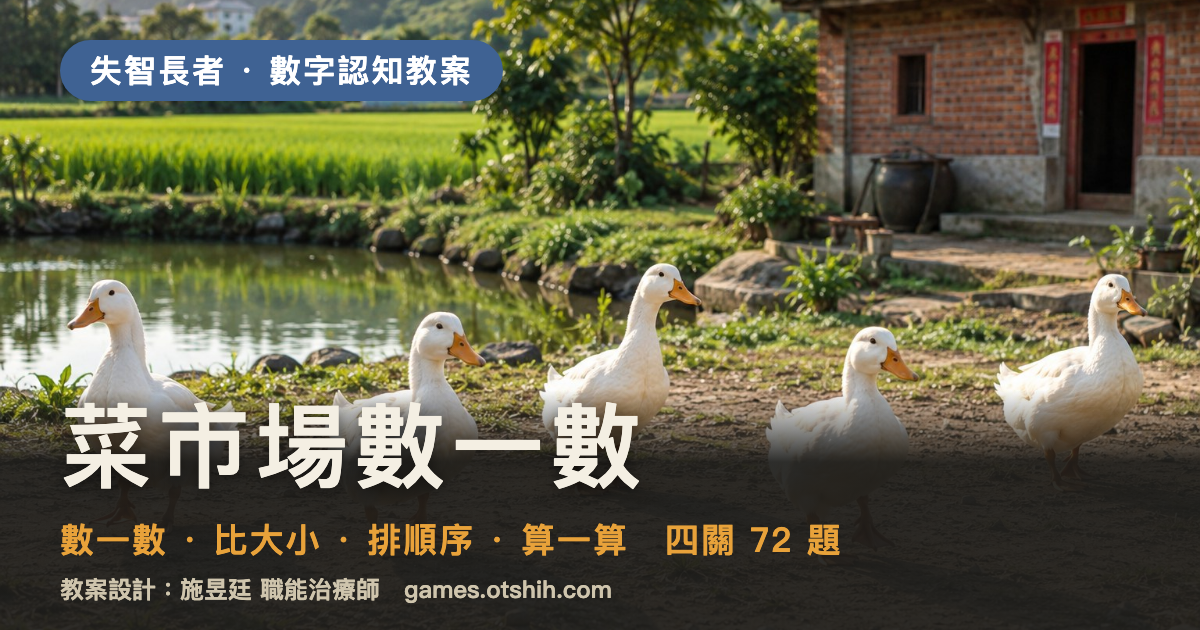
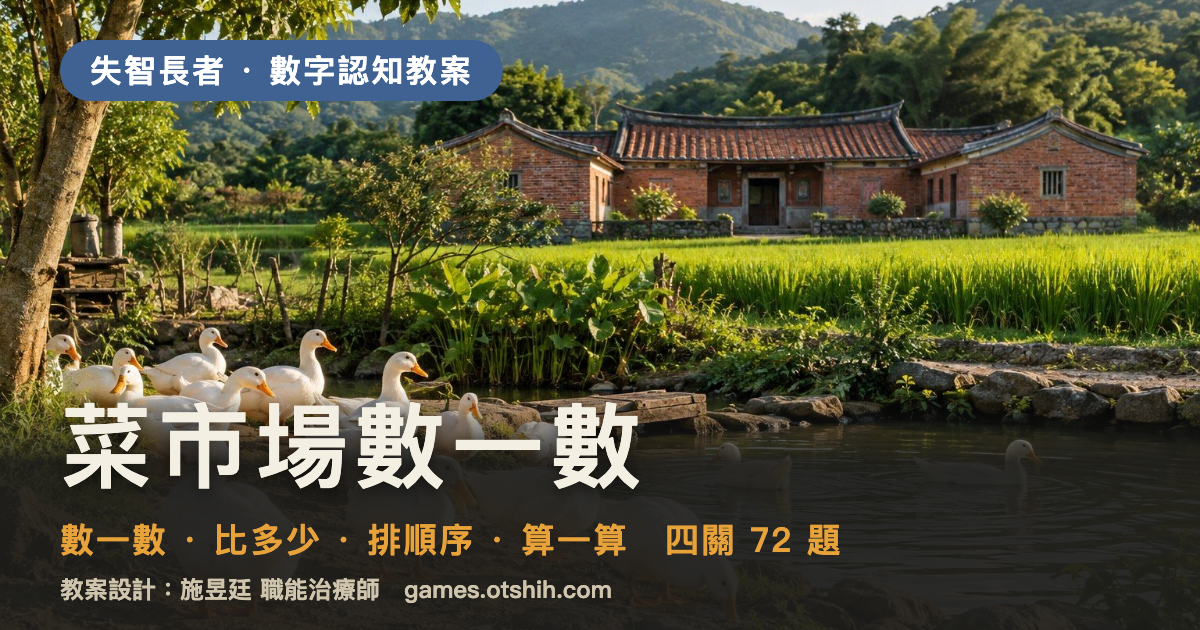
菜市場數一數 v1.1：第二關改「比多少」純數量比較（老闆指示）；排列相鄰不重複＋尺寸抖動

diff --git a/market-beta/index.html b/market-beta/index.html
@@ -4,13 +4,13 @@
 <meta charset="utf-8">
 <meta name="viewport" content="width=device-width,initial-scale=1,viewport-fit=cover">
 <title>菜市場數一數 — 數字認知教案</title>
-<meta name="description" content="菜市場數一數：數一數、比大小、排順序、算一算，四關 72 題的失智長者數字認知教案。投影帶團體或手機都能玩。教案設計：施昱廷 職能治療師。">
+<meta name="description" content="菜市場數一數：數一數、比多少、排順序、算一算，四關 72 題的失智長者數字認知教案。投影帶團體或手機都能玩。教案設計：施昱廷 職能治療師。">
 <meta name="theme-color" content="#3F6293">
 <link rel="icon" href="../favicon.png">
 <meta property="og:type" content="website">
 <meta property="og:site_name" content="復能小遊戲">
 <meta property="og:title" content="菜市場數一數 · 失智長者數字認知教案">
-<meta property="og:description" content="數一數、比大小、排順序、算一算，四關 72 題，用菜市場最熟悉的東西練數字。投影帶團體、手機也能玩。免費開放。">
+<meta property="og:description" content="數一數、比多少、排順序、算一算，四關 72 題，用菜市場最熟悉的東西練數字。投影帶團體、手機也能玩。免費開放。">
 <meta property="og:url" content="https://games.otshih.com/market-beta/">
 <meta property="og:image" content="https://games.otshih.com/market-beta/share.png">
 <meta property="og:image:width" content="1200">
@@ -114,7 +114,7 @@ kbd{display:inline-block;background:var(--ink);color:#fff;border-radius:10px;pad
 .scene.studio{background-image:url(img/bg_studio.jpg)} .scene.wood{background-image:url(img/bg_wood.jpg)}
 .items{position:absolute;inset:0;display:flex;flex-wrap:wrap;align-content:center;justify-content:center;gap:var(--gap,10px);padding:40px}
 .item{position:relative;width:var(--sz);height:var(--sz);display:flex;align-items:flex-end;justify-content:center}
-.item img{max-width:100%;max-height:100%;width:auto;height:auto;filter:drop-shadow(0 12px 10px rgba(0,0,0,.22));transform:rotate(var(--rot,0deg)) scaleX(var(--flip,1))}
+.item img{max-width:100%;max-height:100%;width:auto;height:auto;filter:drop-shadow(0 12px 10px rgba(0,0,0,.22));transform:rotate(var(--rot,0deg)) scaleX(var(--flip,1)) scale(var(--sc,1));transform-origin:center bottom}
 .item .num{position:absolute;top:-6px;right:-6px;width:.6em;height:.6em;font-size:calc(var(--sz) * .5);border-radius:50%;background:var(--amber);color:var(--ink);font-weight:900;display:none;align-items:center;justify-content:center;box-shadow:0 4px 10px rgba(0,0,0,.25);line-height:1}
 .item.num-on .num{display:flex;animation:drop .35s ease-out both}
 .items.fives{align-content:center;padding:30px 60px}
@@ -302,13 +302,13 @@ kbd{display:inline-block;background:var(--ink);color:#fff;border-radius:10px;pad
   </div></div>
 </div></div>
 
-<script src="questions.js?v=1"></script>
+<script src="questions.js?v=2"></script>
 <script>
 (function(){
   const T = window.TOPICS, R = window.ROUNDS, M = window.MONEY, LV = window.LEVELS;
   const $ = s => document.querySelector(s);
   const png = k => `img/${k}.png`, jpg = k => `img/${k}.jpg`;
-  const LVDESC = ["1～5、明顯差距、3 張牌、數硬幣","6～10、尺寸比較、4 張牌、50 元找零","11～20、比價錢、5 張牌、100 元買兩樣"];
+  const LVDESC = ["1～5、差很多、3 張牌、數硬幣","6～10、差 2～3 個、4 張牌、50 元找零","11～20、差 1～3 個、5 張牌、100 元買兩樣"];
 
   /* 可重現的亂數（同一題每次排法一樣，帶領者提示卡才對得上） */
   function rng(seed){ let s = seed * 9301 + 49297; return () => { s = (s * 9301 + 49297) % 233280; return s / 233280; }; }
@@ -318,10 +318,12 @@ kbd{display:inline-block;background:var(--ink);color:#fff;border-radius:10px;pad
     const t = T[topic], r = rng(seed);
     const sz = opt.sz || (n <= 5 ? 300 : n <= 10 ? 220 : 160);
     let h = `<div class="items" style="--sz:${sz}px;--gap:${opt.gap ?? (n<=5?40:n<=10?26:14)}px">`;
+    let last = -1;
     for (let i = 0; i < n; i++) {
-      const im = t.items[Math.floor(r() * t.items.length)];
-      const rot = (r() * 16 - 8).toFixed(1), flip = r() < 0.4 ? -1 : 1;
-      h += `<div class="item" style="--rot:${rot}deg;--flip:${flip}"><img src="${png(im)}" alt=""><span class="num">${i+1}</span></div>`;
+      let k = Math.floor(r() * t.items.length); if (t.items.length > 1 && k === last) k = (k + 1) % t.items.length; last = k;
+      const im = t.items[k];
+      const rot = (r() * 16 - 8).toFixed(1), flip = r() < 0.45 ? -1 : 1, sc = (0.86 + r() * 0.22).toFixed(2);
+      h += `<div class="item" style="--rot:${rot}deg;--flip:${flip};--sc:${sc}"><img src="${png(im)}" alt=""><span class="num">${i+1}</span></div>`;
     }
     return h + `</div>`;
   }
@@ -363,7 +365,7 @@ kbd{display:inline-block;background:var(--ink);color:#fff;border-radius:10px;pad
         <span class="chip">失智長者 · 數字認知教案</span>
         <div class="pre">阿公阿嬤上市場</div>
         <h1 class="big">菜市場數一數</h1>
-        <div class="sub">數一數 · 比大小 · 排順序 · 算一算</div>
+        <div class="sub">數一數 · 比多少 · 排順序 · 算一算</div>
         <div class="go">點一下螢幕開始（電腦可按 → 鍵或簡報筆）<br><span style="font-size:30px">四關 · 三級 · 72 題 · 帶領者主持，長輩用嘴巴回答</span></div>
       </div>
       <div class="mosaic">${R.map(r=>`<div class="card"><img src="${jpg(['story_duck','story_egg','story_market','story_shop'][R.indexOf(r)])}" alt=""><span>${r.icon} ${r.name}</span></div>`).join('')}</div>`;
@@ -371,7 +373,7 @@ kbd{display:inline-block;background:var(--ink);color:#fff;border-radius:10px;pad
     if (s.type === 'howto') {
       el.innerHTML = `<div>
         <h2>教案目的</h2>
-        <p>用菜市場裡最熟悉的東西練數字：數鴨子、比大小、排價錢、算找零。數字能力是長輩一輩子在用的，從「一定答得出來」開始，把成功經驗留給他們。</p>
+        <p>用菜市場裡最熟悉的東西練數字：數鴨子、比多少、排價錢、算找零。數字能力是長輩一輩子在用的，從「一定答得出來」開始，把成功經驗留給他們。</p>
         <h2 style="margin-top:30px">四拍節奏</h2>
         <div class="beats"><span>① 看</span><span>② 答</span><span>③ 揭曉</span><span>④ 聊聊看</span></div>
         <p>三個級別：<b>初階</b>一定答得出來、<b>中階</b>要想一下、<b>進階</b>給輕度長輩挑戰。混合班可以同一題先讓輕度答，再按提示降階讓中度也答。</p>
@@ -381,7 +383,7 @@ kbd{display:inline-block;background:var(--ink);color:#fff;border-radius:10px;pad
         <ol>
           <li>目錄選關卡與級別，一堂課打一關約 20 分鐘。</li>
           <li>出題後先等長輩開口，不急著揭曉；按 <kbd>→</kbd> 才會 3、2、1 揭曉。</li>
-          <li>答不出來按 <kbd>💡 提示</kbd>：數一數會排成五個一排、比大小會標數字、排順序正確卡片會發亮、算一算硬幣一枚一枚亮。</li>
+          <li>答不出來按 <kbd>💡 提示</kbd>：數一數會排成五個一排、比多少會標數字、排順序正確卡片會發亮、算一算硬幣一枚一枚亮。</li>
           <li>分組時開 <kbd>🏆 計分</kbd>，只加分不扣分，結尾看兩隊合計。</li>
         </ol>
         <ul class="keys" style="margin-top:22px">

diff --git a/market-beta/questions.js b/market-beta/questions.js
@@ -53,27 +53,27 @@ window.ROUNDS = [
       [ {topic:"duck",n:7},{topic:"egg",n:10},{topic:"orange",n:8},{topic:"fish",n:6},{topic:"tomato",n:9},{topic:"sweetpotato",n:7} ],
       [ {topic:"duck",n:12},{topic:"egg",n:15},{topic:"orange",n:14},{topic:"fish",n:11},{topic:"tomato",n:18},{topic:"sweetpotato",n:13} ],
     ] },
-  { id:"compare", name:"比大小", sub:"哪一邊比較多、比較大？", icon:"⚖", bg:"studio", goal:"量感、視覺比較、判斷",
+  { id:"compare", name:"比多少", sub:"哪一邊比較多？", icon:"⚖", bg:"studio", goal:"量感、視覺比較、判斷",
     how:"左右兩邊各一組，請長輩指左邊或右邊；按「提示」會把數字標出來。",
     levels:[
-      [ {topic:"duck",type:"count",a:2,b:6,ask:"哪一邊的鴨子比較多？"},
+      [ {topic:"duck",type:"count",a:2,b:5,ask:"哪一邊的鴨子比較多？"},
         {topic:"egg",type:"count",a:5,b:1,ask:"哪一邊的雞蛋比較多？"},
-        {topic:"fish",type:"size",a:1,b:0.55,ask:"哪一條魚比較大？"},
-        {topic:"cabbage",type:"size",a:0.6,b:1,ask:"哪一顆高麗菜比較大？"},
-        {topic:"orange",type:"count",a:3,b:8,ask:"哪一邊的橘子比較多？"},
-        {topic:"radish",type:"size",a:1,b:0.5,ask:"哪一條蘿蔔比較長？"} ],
-      [ {topic:"duck",type:"count",a:5,b:7,ask:"哪一邊的鴨子比較多？"},
-        {topic:"tomato",type:"count",a:8,b:6,ask:"哪一邊的番茄比較多？"},
-        {topic:"sweetpotato",type:"size",a:0.75,b:1,ask:"哪一條地瓜比較大？"},
-        {topic:"corn",type:"size",a:1,b:0.7,ask:"哪一根玉米比較大？"},
-        {topic:"egg",type:"count",a:9,b:10,ask:"哪一邊的雞蛋比較多？"},
-        {topic:"banana",type:"size",a:0.65,b:1,ask:"哪一串香蕉比較大？"} ],
-      [ {topic:"fish",type:"price",a:120,b:85,ask:"哪一條魚比較貴？"},
-        {topic:"cabbage",type:"price",a:35,b:50,ask:"哪一顆高麗菜比較便宜？",want:"min"},
-        {topic:"orange",type:"count",a:12,b:14,ask:"哪一邊的橘子比較多？"},
-        {topic:"corn",type:"price",a:25,b:30,ask:"哪一根玉米比較貴？"},
-        {topic:"tomato",type:"count",a:15,b:13,ask:"哪一邊的番茄比較少？",want:"min"},
-        {topic:"radish",type:"price",a:40,b:38,ask:"哪一條蘿蔔比較便宜？",want:"min"} ],
+        {topic:"orange",type:"count",a:1,b:4,ask:"哪一邊的橘子比較多？"},
+        {topic:"fish",type:"count",a:4,b:2,ask:"哪一邊的魚比較多？"},
+        {topic:"tomato",type:"count",a:3,b:5,ask:"哪一邊的番茄比較多？"},
+        {topic:"sweetpotato",type:"count",a:5,b:2,ask:"哪一邊的地瓜比較多？"} ],
+      [ {topic:"duck",type:"count",a:6,b:9,ask:"哪一邊的鴨子比較多？"},
+        {topic:"egg",type:"count",a:10,b:7,ask:"哪一邊的雞蛋比較多？"},
+        {topic:"orange",type:"count",a:7,b:9,ask:"哪一邊的橘子比較多？"},
+        {topic:"fish",type:"count",a:8,b:6,ask:"哪一邊的魚比較多？"},
+        {topic:"tomato",type:"count",a:9,b:6,ask:"哪一邊的番茄比較多？"},
+        {topic:"sweetpotato",type:"count",a:6,b:8,ask:"哪一邊的地瓜比較多？"} ],
+      [ {topic:"duck",type:"count",a:12,b:14,ask:"哪一邊的鴨子比較多？"},
+        {topic:"egg",type:"count",a:15,b:13,ask:"哪一邊的雞蛋比較多？"},
+        {topic:"orange",type:"count",a:11,b:12,ask:"哪一邊的橘子比較多？"},
+        {topic:"fish",type:"count",a:16,b:13,ask:"哪一邊的魚比較多？"},
+        {topic:"tomato",type:"count",a:18,b:20,ask:"哪一邊的番茄比較多？"},
+        {topic:"sweetpotato",type:"count",a:14,b:11,ask:"哪一邊的地瓜比較多？"} ],
     ] },
   { id:"order", name:"排順序", sub:"由少到多、由便宜到貴", icon:"📶", bg:"wood", goal:"工作記憶、序列處理、執行功能",
     how:"卡片打散在上面，一次只問「下一張放哪張」，點對的卡片就會排進軌道。按「提示」正確的那張會發亮。",

diff --git a/market-beta/print.html b/market-beta/print.html
@@ -7,7 +7,7 @@ th{background:#F4EFE3}.lv{font-weight:900;color:#C4622F}.note{color:#5a564d;font
 <h1>菜市場數一數 — 帶領者提示卡（答案與聊聊看）</h1>
 <p class="note">四拍：看 → 答 → 揭曉（按 → 才會 3、2、1）→ 聊聊看。答不出來先按 H 提示降階，不催、不糾正，讓每個人都有開口的機會。教案設計：施昱廷 職能治療師</p>
 <div id="out"></div>
-<script src="questions.js?v=1"></script>
+<script src="questions.js?v=2"></script>
 <script>
 const T=window.TOPICS,R=window.ROUNDS,LV=window.LEVELS;let h='';
 R.forEach((rd,ri)=>{h+=`<div class="r"><h2>第 ${ri+1} 關 ${rd.name}｜${rd.sub}｜練習：${rd.goal}</h2><p class="note">${rd.how}</p>`;
